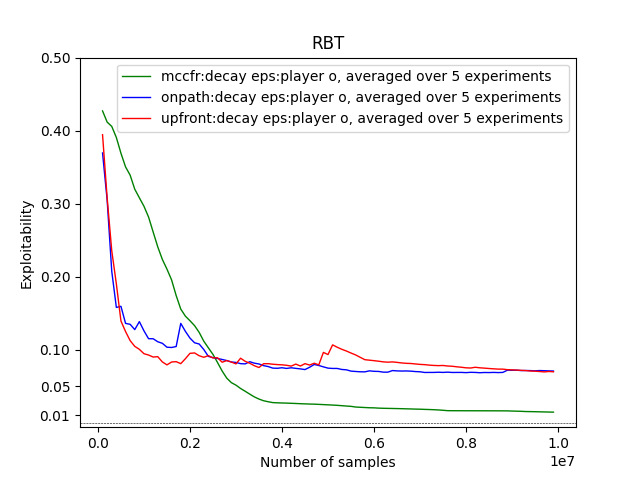
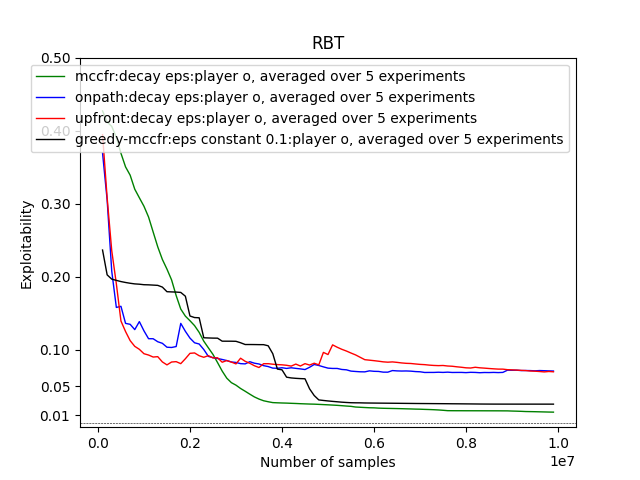
update

diff --git a/plot_exp.py b/plot_exp.py
@@ -54,6 +54,7 @@ if __name__ == "__main__":
     mccfr_num_experiments = 5
     onpath_num_experiments = 5
     upfront_num_experiments = 5
+    greedy_mccfr_num_experiments = 5
 
     mccfr_x, mccfr_y = clean_data("data/eps_constant=0.100000_xmccfr_exploitability_log", mccfr_num_experiments, 99, 100000, 1,
                                   1, interpolation=False)
@@ -61,13 +62,17 @@ if __name__ == "__main__":
                                     1, interpolation=False)
     upfront_x, upfront_y = clean_data("data/eps_constant=0.100000_xupfront_flipping_exploitability_log", upfront_num_experiments, 99, 100000,
                                       1, 1, interpolation=False)
+    greedy_mccfr_x, greedy_mccfr_y = clean_data("data/eps_constant=0.100000_xmccfr_greedy_exploitability_log", greedy_mccfr_num_experiments, 99, 100000, 1,
+                                  1, interpolation=False)
 
     plt.plot(mccfr_x[0:99], mccfr_y[0:99], marker='', linewidth=1, color='green',
-             label='mccfr:eps constant 0.1:player ' + player + ', averaged over ' + str(onpath_num_experiments) + ' experiments')
+             label='mccfr:eps constant 0.1:player ' + player + ', averaged over ' + str(mccfr_num_experiments) + ' experiments')
     plt.plot(onpath_x[0:99], onpath_y[0:99], marker='', linewidth=1, color='blue',
              label='onpath:eps constant 0.1:player ' + player + ', averaged over ' + str(onpath_num_experiments) + ' experiments')
     plt.plot(upfront_x[0:99], upfront_y[0:99], marker='', linewidth=1, color='red',
              label='upfront:eps constant 0.1:player ' + player + ', averaged over ' + str(upfront_num_experiments) + ' experiments')
+    plt.plot(greedy_mccfr_x[0:99], greedy_mccfr_y[0:99], marker='', linewidth=1, color='black',
+             label='greedy-mccfr:eps constant 0.1:player ' + player + ', averaged over ' + str(greedy_mccfr_num_experiments) + ' experiments')
 
     # horizontal line
     plt.axhline(y=0, color='black', linestyle='--', linewidth=0.4)
@@ -79,34 +84,24 @@ if __name__ == "__main__":
     plt.savefig("player_x_eps=0.1.png")
     plt.close()
 
-    # mccfr_x, mccfr_y = clean_data("data/eps_constant=0.100000_xaverage_mccfr_exploitability_log", mccfr_num_experiments, 99, 100000, 1,
-    #                               1, interpolation=False)
-    # onpath_x, onpath_y = clean_data("data/eps_constant=0.100000_xaverage_onpath_flipping_exploitability_log", onpath_num_experiments, 99, 100000, 1,
-    #                                 1, interpolation=False)
-    # upfront_x, upfront_y = clean_data("data/eps_constant=0.100000_xaverage_upfront_flipping_exploitability_log", upfront_num_experiments, 99, 100000,
-    #                                   1, 1, interpolation=False)
-    #
-    # plt.plot(mccfr_x[0:99], mccfr_y[0:99], marker='', linewidth=1, color='green', linestyle='dotted',
-    #          label='mccfr average for player ' + player + ', averaged over ' + str(onpath_num_experiments) + ' experiments')
-    # plt.plot(onpath_x[0:99], onpath_y[0:99], marker='', linewidth=1, color='blue', linestyle='dotted',
-    #          label='onpath average for player ' + player + ', averaged over ' + str(onpath_num_experiments) + ' experiments')
-    # plt.plot(upfront_x[0:99], upfront_y[0:99], marker='', linewidth=1, color='red', linestyle='dotted',
-    #          label='upfront average ' + player + ', averaged over ' + str(upfront_num_experiments) + ' experiments')
-
-
     mccfr_x, mccfr_y = clean_data("data/eps_decay_step_size=500000_xmccfr_exploitability_log", mccfr_num_experiments, 99, 100000, 1,
                                   1, interpolation=False)
     onpath_x, onpath_y = clean_data("data/eps_decay_step_size=500000_xonpath_flipping_exploitability_log", onpath_num_experiments, 99, 100000, 1,
                                     1, interpolation=False)
     upfront_x, upfront_y = clean_data("data/eps_decay_step_size=500000_xupfront_flipping_exploitability_log", upfront_num_experiments, 99, 100000,
                                       1, 1, interpolation=False)
+    greedy_mccfr_x, greedy_mccfr_y = clean_data("data/eps_decay_step_size=500000_xmccfr_greedy_exploitability_log", greedy_mccfr_num_experiments, 99, 100000, 1,
+                                  1, interpolation=False)
+
 
     plt.plot(mccfr_x[0:99], mccfr_y[0:99], marker='', linewidth=1, color='green', linestyle='solid',
-             label='mccfr:eps decay:player ' + player + ', averaged over ' + str(onpath_num_experiments) + ' experiments')
+             label='mccfr:eps decay:player ' + player + ', averaged over ' + str(mccfr_num_experiments) + ' experiments')
     plt.plot(onpath_x[0:99], onpath_y[0:99], marker='', linewidth=1, color='blue', linestyle='solid',
              label='onpath:eps decay:player ' + player + ', averaged over ' + str(onpath_num_experiments) + ' experiments')
     plt.plot(upfront_x[0:99], upfront_y[0:99], marker='', linewidth=1, color='red', linestyle='solid',
              label='upfront:eps decay:player ' + player + ', averaged over ' + str(upfront_num_experiments) + ' experiments')
+    plt.plot(greedy_mccfr_x[0:99], greedy_mccfr_y[0:99], marker='', linewidth=1, color='black', linestyle='solid',
+             label='greedy-mccfr:eps decay:player ' + player + ', averaged over ' + str(greedy_mccfr_num_experiments) + ' experiments')
 
     # horizontal line
     plt.axhline(y=0, color='black', linestyle='--', linewidth=0.4)
@@ -125,13 +120,18 @@ if __name__ == "__main__":
                                     1, interpolation=False, player='o')
     upfront_x, upfront_y = clean_data("data/eps_constant=0.100000_oupfront_flipping_exploitability_log", upfront_num_experiments, 99, 100000,
                                       1, 1, interpolation=False, player='o')
+    greedy_mccfr_x, greedy_mccfr_y = clean_data("data/eps_constant=0.100000_omccfr_greedy_exploitability_log", greedy_mccfr_num_experiments, 99, 100000, 1,
+                                  1, interpolation=False, player='o')
 
     plt.plot(mccfr_x[0:99], mccfr_y[0:99], marker='', linewidth=1, color='green',
-             label='mccfr:eps constant 0.1:player ' + player + ', averaged over ' + str(onpath_num_experiments) + ' experiments')
+             label='mccfr:eps constant 0.1:player ' + player + ', averaged over ' + str(mccfr_num_experiments) + ' experiments')
     plt.plot(onpath_x[0:99], onpath_y[0:99], marker='', linewidth=1, color='blue',
              label='onpath:eps constant 0.1:player ' + player + ', averaged over ' + str(onpath_num_experiments) + ' experiments')
     plt.plot(upfront_x[0:99], upfront_y[0:99], marker='', linewidth=1, color='red',
              label='upfront:eps constant 0.1:player ' + player + ', averaged over ' + str(upfront_num_experiments) + ' experiments')
+    plt.plot(greedy_mccfr_x[0:99], greedy_mccfr_y[0:99], marker='', linewidth=1, color='black',
+             label='greedy-mccfr:eps constant 0.1:player ' + player + ', averaged over ' + str(
+                 greedy_mccfr_num_experiments) + ' experiments')
 
     # horizontal line
     plt.axhline(y=0, color='black', linestyle='--', linewidth=0.4)
@@ -144,26 +144,14 @@ if __name__ == "__main__":
     plt.savefig("player_o_eps=0.1.png")
     plt.close()
 
-    # mccfr_x, mccfr_y = clean_data("data/eps_constant=0.100000_oaverage_mccfr_exploitability_log", mccfr_num_experiments, 99, 100000, 1,
-    #                               1, interpolation=False)
-    # onpath_x, onpath_y = clean_data("data/eps_constant=0.100000_oaverage_onpath_flipping_exploitability_log", onpath_num_experiments, 99, 100000, 1,
-    #                                 1, interpolation=False)
-    # upfront_x, upfront_y = clean_data("data/eps_constant=0.100000_oaverage_upfront_flipping_exploitability_log", upfront_num_experiments, 99, 100000,
-    #                                   1, 1, interpolation=False)
-    #
-    # plt.plot(mccfr_x[0:99], mccfr_y[0:99], marker='', linewidth=1, color='green', linestyle='dotted',
-    #          label='mccfr average for player ' + player + ', averaged over ' + str(onpath_num_experiments) + ' experiments')
-    # plt.plot(onpath_x[0:99], onpath_y[0:99], marker='', linewidth=1, color='blue', linestyle='dotted',
-    #          label='onpath average for player ' + player + ', averaged over ' + str(onpath_num_experiments) + ' experiments')
-    # plt.plot(upfront_x[0:99], upfront_y[0:99], marker='', linewidth=1, color='red', linestyle='dotted',
-    #          label='upfront average for player' + player + ', averaged over ' + str(upfront_num_experiments) + ' experiments')
-
     mccfr_x, mccfr_y = clean_data("data/eps_decay_step_size=500000_omccfr_exploitability_log", mccfr_num_experiments, 99, 100000, 1,
                                   1, interpolation=False, player='o')
     onpath_x, onpath_y = clean_data("data/eps_decay_step_size=500000_oonpath_flipping_exploitability_log", onpath_num_experiments, 99, 100000, 1,
                                     1, interpolation=False, player='o')
     upfront_x, upfront_y = clean_data("data/eps_decay_step_size=500000_oupfront_flipping_exploitability_log", upfront_num_experiments, 99, 100000,
                                       1, 1, interpolation=False, player='o')
+    greedy_mccfr_x, greedy_mccfr_y = clean_data("data/eps_constant=0.100000_omccfr_greedy_exploitability_log", greedy_mccfr_num_experiments, 99, 100000, 1,
+                                  1, interpolation=False, player='o')
 
     plt.plot(mccfr_x[0:99], mccfr_y[0:99], marker='', linewidth=1, color='green', linestyle='solid',
              label='mccfr:decay eps:player ' + player + ', averaged over ' + str(onpath_num_experiments) + ' experiments')
@@ -171,6 +159,9 @@ if __name__ == "__main__":
              label='onpath:decay eps:player ' + player + ', averaged over ' + str(onpath_num_experiments) + ' experiments')
     plt.plot(upfront_x[0:99], upfront_y[0:99], marker='', linewidth=1, color='red', linestyle='solid',
              label='upfront:decay eps:player ' + player + ', averaged over ' + str(upfront_num_experiments) + ' experiments')
+    plt.plot(greedy_mccfr_x[0:99], greedy_mccfr_y[0:99], marker='', linewidth=1, color='black',
+             label='greedy-mccfr:eps constant 0.1:player ' + player + ', averaged over ' + str(
+                 greedy_mccfr_num_experiments) + ' experiments')
 
     # horizontal line
     plt.axhline(y=0, color='black', linestyle='--', linewidth=0.4)
@@ -181,4 +172,152 @@ if __name__ == "__main__":
     plt.title("RBT")
     #plt.show()
     plt.savefig("player_o_eps_decay_step=500000.png")
+    plt.close()
+
+    ################################################ Average ###########################################################
+    mccfr_x, mccfr_y = clean_data("data/eps_constant=0.100000_xaverage_mccfr_exploitability_log", mccfr_num_experiments, 99,
+                                  100000, 1,
+                                  1, interpolation=False)
+    onpath_x, onpath_y = clean_data("data/eps_constant=0.100000_xaverage_onpath_flipping_exploitability_log",
+                                    onpath_num_experiments, 99, 100000, 1,
+                                    1, interpolation=False)
+    upfront_x, upfront_y = clean_data("data/eps_constant=0.100000_xaverage_upfront_flipping_exploitability_log",
+                                      upfront_num_experiments, 99, 100000,
+                                      1, 1, interpolation=False)
+    greedy_mccfr_x, greedy_mccfr_y = clean_data("data/eps_constant=0.100000_xaverage_mccfr_greedy_exploitability_log",
+                                                greedy_mccfr_num_experiments, 99, 100000, 1,
+                                                1, interpolation=False)
+
+    plt.plot(mccfr_x[0:99], mccfr_y[0:99], marker='', linewidth=1, color='green',
+             label='mccfr:eps constant 0.1:player ' + player + ', averaged over ' + str(
+                 mccfr_num_experiments) + ' experiments')
+    plt.plot(onpath_x[0:99], onpath_y[0:99], marker='', linewidth=1, color='blue',
+             label='onpath:eps constant 0.1:player ' + player + ', averaged over ' + str(
+                 onpath_num_experiments) + ' experiments')
+    plt.plot(upfront_x[0:99], upfront_y[0:99], marker='', linewidth=1, color='red',
+             label='upfront:eps constant 0.1:player ' + player + ', averaged over ' + str(
+                 upfront_num_experiments) + ' experiments')
+    plt.plot(greedy_mccfr_x[0:99], greedy_mccfr_y[0:99], marker='', linewidth=1, color='black',
+             label='greedy-mccfr:eps constant 0.1:player ' + player + ', averaged over ' + str(
+                 greedy_mccfr_num_experiments) + ' experiments')
+
+    # horizontal line
+    plt.axhline(y=0, color='black', linestyle='--', linewidth=0.4)
+    plt.yticks([0.01, 0.05, 0.1, 0.2, 0.3, 0.4, 0.5])
+    plt.xlabel('Number of samples')
+    plt.ylabel('Exploitability')
+    plt.legend()
+    # plt.show()
+    plt.savefig("player_x_average_eps=0.1.png")
+    plt.close()
+
+    mccfr_x, mccfr_y = clean_data("data/eps_decay_step_size=500000_xaverage_mccfr_exploitability_log", mccfr_num_experiments,
+                                  99, 100000, 1,
+                                  1, interpolation=False)
+    onpath_x, onpath_y = clean_data("data/eps_decay_step_size=500000_xaverage_onpath_flipping_exploitability_log",
+                                    onpath_num_experiments, 99, 100000, 1,
+                                    1, interpolation=False)
+    upfront_x, upfront_y = clean_data("data/eps_decay_step_size=500000_xaverage_upfront_flipping_exploitability_log",
+                                      upfront_num_experiments, 99, 100000,
+                                      1, 1, interpolation=False)
+    greedy_mccfr_x, greedy_mccfr_y = clean_data("data/eps_decay_step_size=500000_xaverage_mccfr_greedy_exploitability_log",
+                                                greedy_mccfr_num_experiments, 99, 100000, 1,
+                                                1, interpolation=False)
+
+    plt.plot(mccfr_x[0:99], mccfr_y[0:99], marker='', linewidth=1, color='green', linestyle='solid',
+             label='mccfr:eps decay:player ' + player + ', averaged over ' + str(
+                 mccfr_num_experiments) + ' experiments')
+    plt.plot(onpath_x[0:99], onpath_y[0:99], marker='', linewidth=1, color='blue', linestyle='solid',
+             label='onpath:eps decay:player ' + player + ', averaged over ' + str(
+                 onpath_num_experiments) + ' experiments')
+    plt.plot(upfront_x[0:99], upfront_y[0:99], marker='', linewidth=1, color='red', linestyle='solid',
+             label='upfront:eps decay:player ' + player + ', averaged over ' + str(
+                 upfront_num_experiments) + ' experiments')
+    plt.plot(greedy_mccfr_x[0:99], greedy_mccfr_y[0:99], marker='', linewidth=1, color='black', linestyle='solid',
+             label='greedy-mccfr:eps decay:player ' + player + ', averaged over ' + str(
+                 greedy_mccfr_num_experiments) + ' experiments')
+
+    # horizontal line
+    plt.axhline(y=0, color='black', linestyle='--', linewidth=0.4)
+    plt.yticks([0.01, 0.05, 0.1, 0.2, 0.3, 0.4, 0.5])
+    plt.xlabel('Number of samples')
+    plt.ylabel('Exploitability')
+    plt.legend()
+    # plt.show()
+    plt.savefig("player_x_average_eps_decay_step=500000.png")
+    plt.close()
+
+    player = 'o'
+    mccfr_x, mccfr_y = clean_data("data/eps_constant=0.100000_oaverage_mccfr_exploitability_log", mccfr_num_experiments, 99,
+                                  100000, 1,
+                                  1, interpolation=False, player='o')
+    onpath_x, onpath_y = clean_data("data/eps_constant=0.100000_oaverage_onpath_flipping_exploitability_log",
+                                    onpath_num_experiments, 99, 100000, 1,
+                                    1, interpolation=False, player='o')
+    upfront_x, upfront_y = clean_data("data/eps_constant=0.100000_oaverage_upfront_flipping_exploitability_log",
+                                      upfront_num_experiments, 99, 100000,
+                                      1, 1, interpolation=False, player='o')
+    greedy_mccfr_x, greedy_mccfr_y = clean_data("data/eps_constant=0.100000_oaverage_mccfr_greedy_exploitability_log",
+                                                greedy_mccfr_num_experiments, 99, 100000, 1,
+                                                1, interpolation=False, player='o')
+
+    plt.plot(mccfr_x[0:99], mccfr_y[0:99], marker='', linewidth=1, color='green',
+             label='mccfr:eps constant 0.1:player ' + player + ', averaged over ' + str(
+                 mccfr_num_experiments) + ' experiments')
+    plt.plot(onpath_x[0:99], onpath_y[0:99], marker='', linewidth=1, color='blue',
+             label='onpath:eps constant 0.1:player ' + player + ', averaged over ' + str(
+                 onpath_num_experiments) + ' experiments')
+    plt.plot(upfront_x[0:99], upfront_y[0:99], marker='', linewidth=1, color='red',
+             label='upfront:eps constant 0.1:player ' + player + ', averaged over ' + str(
+                 upfront_num_experiments) + ' experiments')
+    plt.plot(greedy_mccfr_x[0:99], greedy_mccfr_y[0:99], marker='', linewidth=1, color='black',
+             label='greedy-mccfr:eps constant 0.1:player ' + player + ', averaged over ' + str(
+                 greedy_mccfr_num_experiments) + ' experiments')
+
+    # horizontal line
+    plt.axhline(y=0, color='black', linestyle='--', linewidth=0.4)
+    plt.yticks([0.01, 0.05, 0.1, 0.2, 0.3, 0.4, 0.5])
+    plt.xlabel('Number of samples')
+    plt.ylabel('Exploitability')
+    plt.legend()
+    plt.title("RBT")
+    # plt.show()
+    plt.savefig("player_o_average_eps=0.1.png")
+    plt.close()
+
+    mccfr_x, mccfr_y = clean_data("data/eps_decay_step_size=500000_oaverage_mccfr_exploitability_log", mccfr_num_experiments,
+                                  99, 100000, 1,
+                                  1, interpolation=False, player='o')
+    onpath_x, onpath_y = clean_data("data/eps_decay_step_size=500000_oaverage_onpath_flipping_exploitability_log",
+                                    onpath_num_experiments, 99, 100000, 1,
+                                    1, interpolation=False, player='o')
+    upfront_x, upfront_y = clean_data("data/eps_decay_step_size=500000_oaverage_upfront_flipping_exploitability_log",
+                                      upfront_num_experiments, 99, 100000,
+                                      1, 1, interpolation=False, player='o')
+    greedy_mccfr_x, greedy_mccfr_y = clean_data("data/eps_constant=0.100000_oaverage_mccfr_greedy_exploitability_log",
+                                                greedy_mccfr_num_experiments, 99, 100000, 1,
+                                                1, interpolation=False, player='o')
+
+    plt.plot(mccfr_x[0:99], mccfr_y[0:99], marker='', linewidth=1, color='green', linestyle='solid',
+             label='mccfr:decay eps:player ' + player + ', averaged over ' + str(
+                 onpath_num_experiments) + ' experiments')
+    plt.plot(onpath_x[0:99], onpath_y[0:99], marker='', linewidth=1, color='blue', linestyle='solid',
+             label='onpath:decay eps:player ' + player + ', averaged over ' + str(
+                 onpath_num_experiments) + ' experiments')
+    plt.plot(upfront_x[0:99], upfront_y[0:99], marker='', linewidth=1, color='red', linestyle='solid',
+             label='upfront:decay eps:player ' + player + ', averaged over ' + str(
+                 upfront_num_experiments) + ' experiments')
+    plt.plot(greedy_mccfr_x[0:99], greedy_mccfr_y[0:99], marker='', linewidth=1, color='black',
+             label='greedy-mccfr:eps constant 0.1:player ' + player + ', averaged over ' + str(
+                 greedy_mccfr_num_experiments) + ' experiments')
+
+    # horizontal line
+    plt.axhline(y=0, color='black', linestyle='--', linewidth=0.4)
+    plt.yticks([0.01, 0.05, 0.1, 0.2, 0.3, 0.4, 0.5])
+    plt.xlabel('Number of samples')
+    plt.ylabel('Exploitability')
+    plt.legend()
+    plt.title("RBT")
+    # plt.show()
+    plt.savefig("player_o_average_eps_decay_step=500000.png")
     plt.close()
